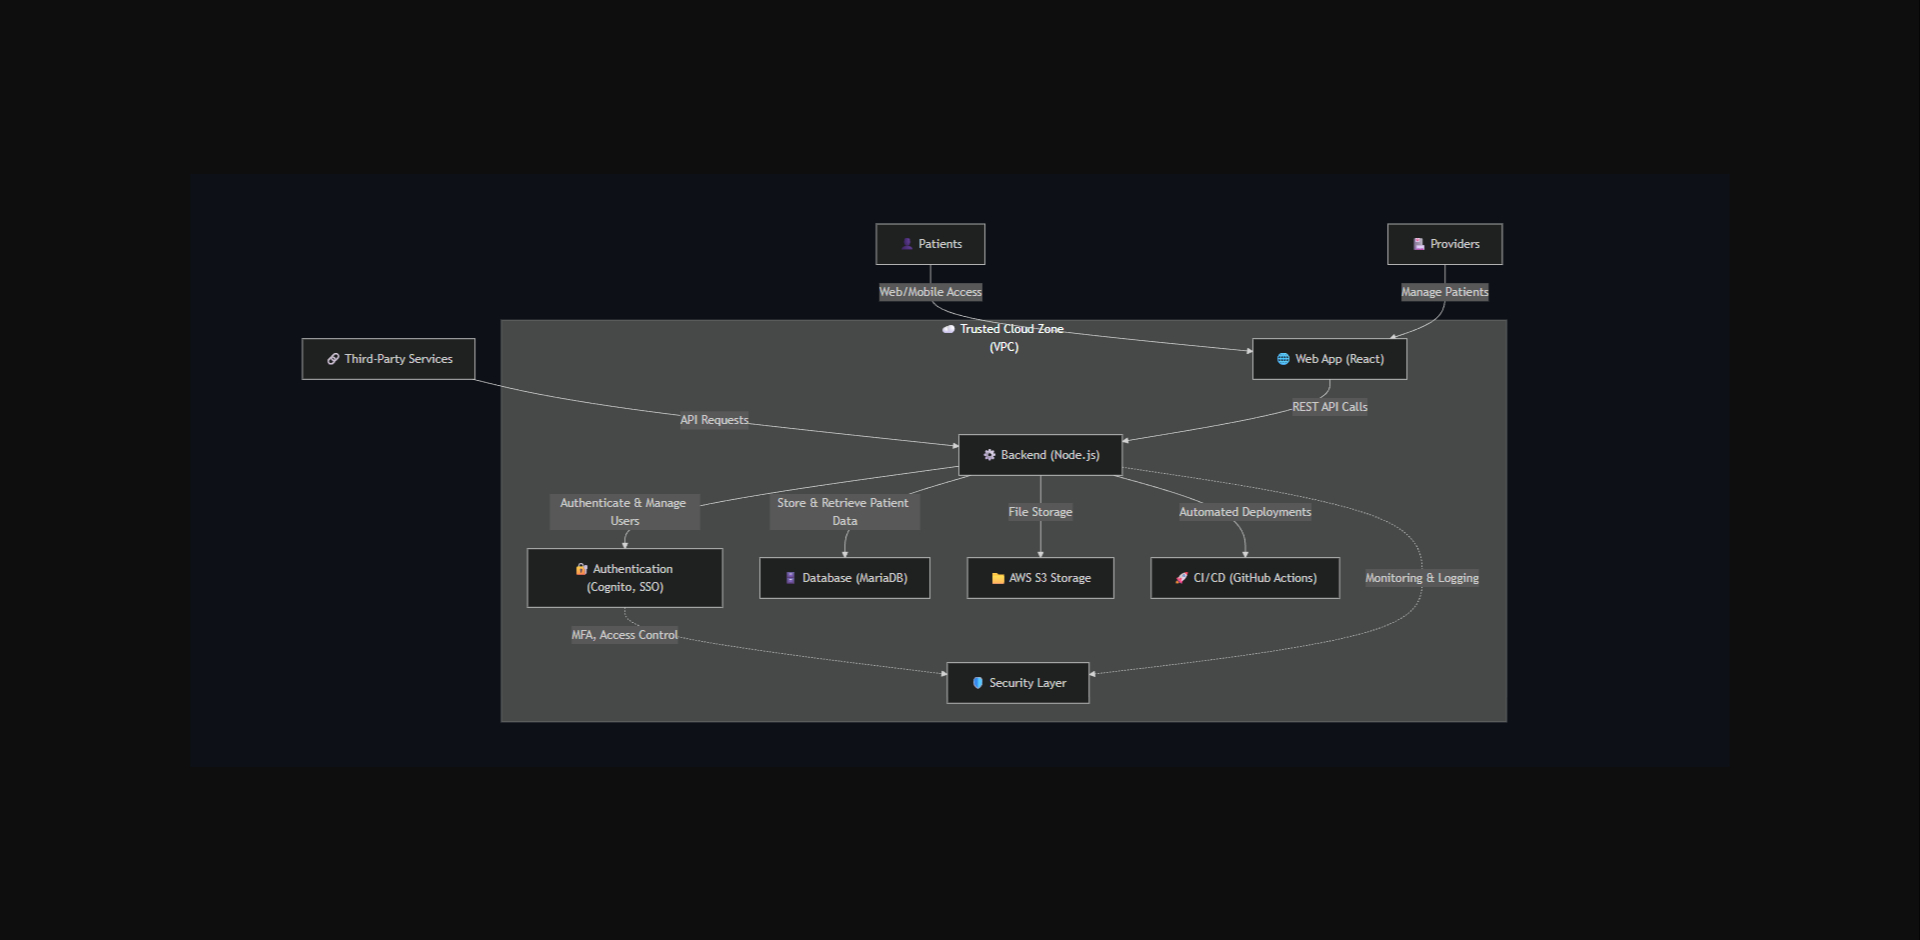
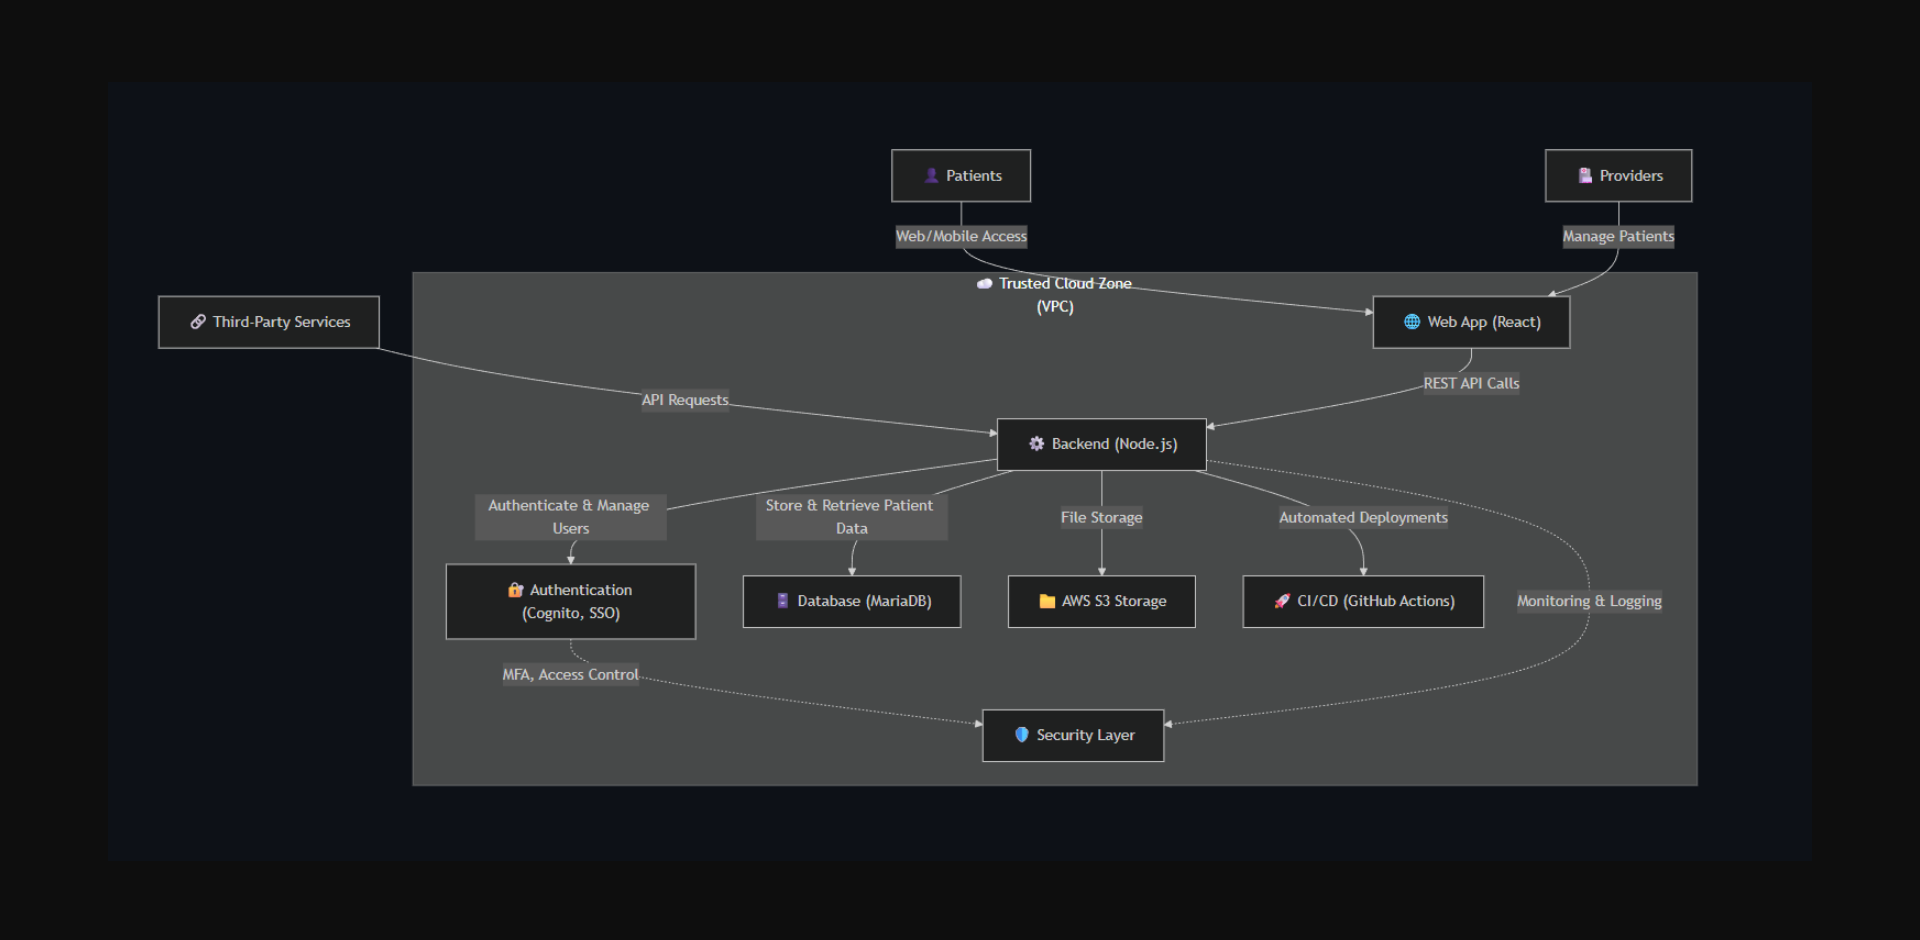
Update

Changed region(s): [[0.0938, 0.1543, 0.9062, 0.8638]]

diff --git a/index.html b/index.html
@@ -526,7 +526,7 @@
 
         .featured-project__visual {
             width: 100%;
-            aspect-ratio: 16/9;
+            aspect-ratio: 1920/940;
             overflow: hidden;
             border-bottom: 1px solid var(--border);
         }
